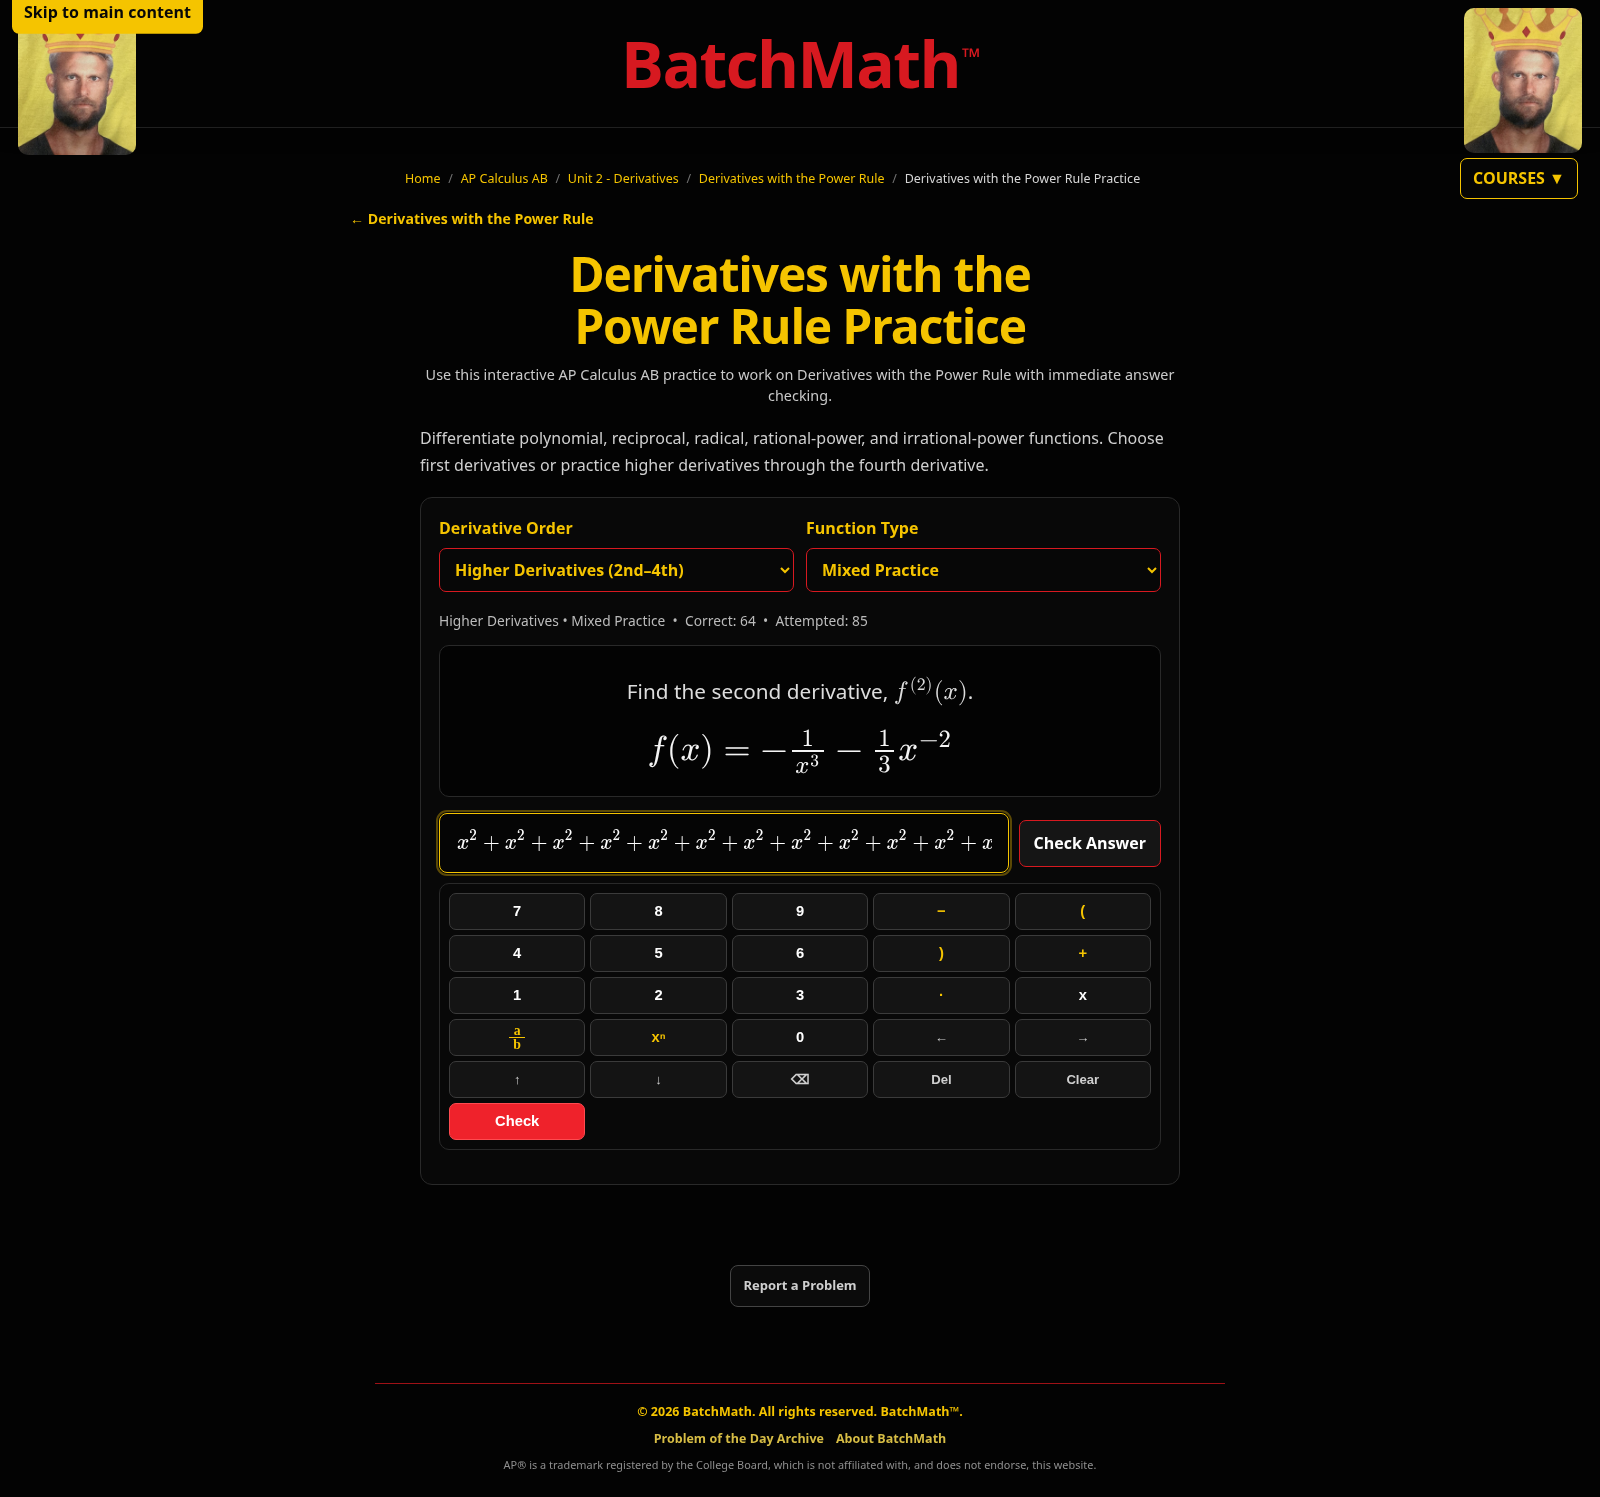
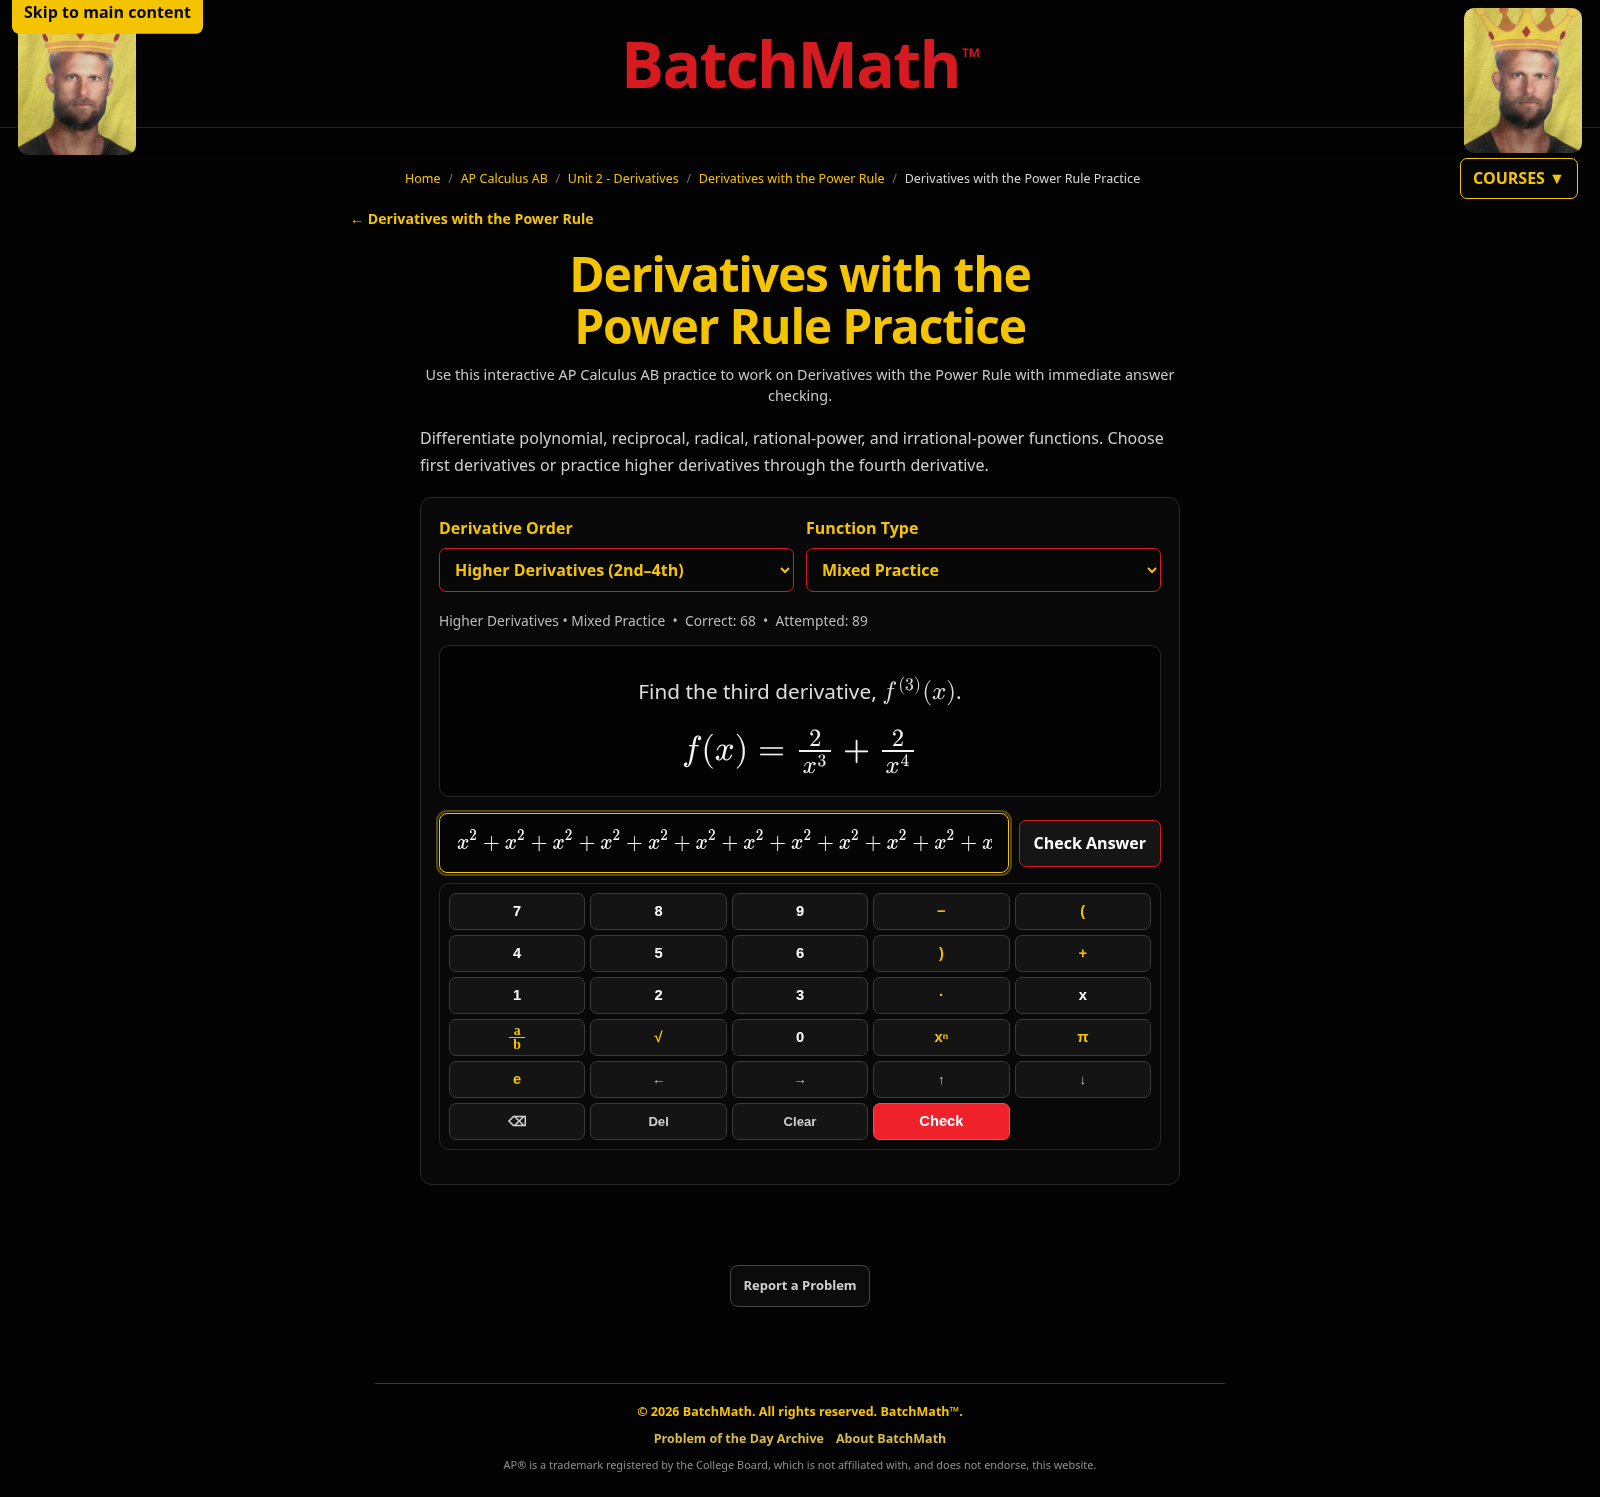
Complete Power Rule keypad for e, pi and square-root answers

Changed region(s): [[0.4062, 0.4302, 0.5938, 0.5224], [0.5312, 0.7375, 0.6562, 0.7682], [0.2812, 0.7375, 0.375, 0.7682]]

diff --git a/assets/calculus-keypad.js b/assets/calculus-keypad.js
@@ -912,7 +912,7 @@
       "unit3-rounded-line":{decimal:true,equality:true,variables:["x","y"]},
       "limits-finite":{fraction:true,radical:true,cubeRoot:true,nthRoot:true,logarithm:true,exponent:true,constants:["pi","e"],arithmetic:true,parentheses:true},
       "limits-no-infinity":{fraction:true,radical:true,cubeRoot:true,nthRoot:true,logarithm:true,exponent:true,constants:["pi","e"],arithmetic:true,parentheses:true,dne:true},
-      "derivative-power":{fraction:true,exponent:true,variables:["x"],arithmetic:true,parentheses:true},
+      "derivative-power":{fraction:true,radical:true,exponent:true,constants:["pi","e"],variables:["x"],arithmetic:true,parentheses:true},
       "derivative-algebra":{fraction:true,exponent:true,radical:true,variables:["x"],arithmetic:true,parentheses:true},
       "derivative-at-point-basic":{fraction:true,radical:true,constants:["pi"],arithmetic:true,parentheses:true},
       "derivative-trig":{fraction:true,exponent:true,variables:["x"],constants:["pi"],functions:[["sin","sin"],["cos","cos"],["tan","tan"],["sec","sec"],["csc","csc"],["cot","cot"]],arithmetic:true,parentheses:true},

diff --git a/docs/mathlive-derivatives-pilot/KEYPAD-AUDIT.md b/docs/mathlive-derivatives-pilot/KEYPAD-AUDIT.md
@@ -1,0 +1,24 @@
+# Derivatives pilot keypad audit
+
+## Part A: Power Rule
+
+The actual `powerRuleProblem()` generator has polynomial, negative-power, fractional/radical, irrational-exponent and synthesis families. Higher-derivative mode samples orders 2–4 and omits irrational exponents, exactly as before. First-derivative irrational questions choose `sqrt(2)`, `sqrt(3)`, `pi` or `e` as a constant exponent; their answers still contain these constants.
+
+| Required mathematical input | Keypad access |
+| --- | --- |
+| Integer coefficients, zero and negative signs | Existing digits and minus |
+| Variable and polynomial terms | Existing `x`, exponent, arithmetic and grouping keys |
+| Rational coefficients and negative/fractional powers | Existing fraction, exponent, parentheses and navigation keys |
+| Irrational constants `e`, `pi` | Added `e` and `π` in the existing visual style |
+| `sqrt(2)`, `sqrt(3)` and square-root answer forms | Added `√` using the existing root key builder |
+| Nth roots / rational powers | Exponent plus a fraction in the exponent, e.g. `x^(1/3)` |
+
+Only the existing `derivative-power` profile configuration changes. The five structural/constant keys—fraction, square root, exponent, pi, e—flow through the existing dense five-column layout. No builder, CSS, constant interpretation, generator or checker changes are needed. Both legacy and MathLive receive exactly the same actual keypad layout and labels.
+
+The unchanged checker supports `sqrt()` but not `root()`/`cbrt()`. The generic legacy nth-root template emits `root(...)`, so adding that button would offer an answer the checker cannot parse. Nth roots remain fully expressible on screen as fractional powers; MathLive also retains its native typed/pasted nth-root notation, translated structurally to fractional powers. No inverse trig, log, unrelated variables, infinity or other answer-outcome buttons are needed here. Decimal coefficients are not emitted by these families; exact rational coefficients use the fraction key.
+
+Verification samples 3,600 actual generated answers across all nine available selector combinations, confirming that their identifier/function grammar is exactly `x`, `e`, `pi`, `sqrt`. Browser coverage constructs and grades complete actual `e`, `pi`, `sqrt2` and `sqrt3` answers using only visible keypad clicks in **both** editors. The original Power Rule grading, focus, history, fallback and responsive suites are retained.
+
+The old shared-keypad QA explicitly required Power Rule to omit `e` and `π`. That obsolete expectation is updated to require the audited keys, while retaining its unrelated profile/editor tests. A separate scope test proves that the shared keypad implementation and all unrelated profiles are otherwise identical to the successful pilot checkpoint.
+
+Part A checkpoint: 44/44 focused Node tests, 38/38 real Chromium checks, shared-keypad QA (139 reported cases), keyboard/accounting QA (46 cases), and Power Rule family QA (22,500 individual + 12,000 review samples) pass. The original generator/checker script is byte-for-byte unchanged.
